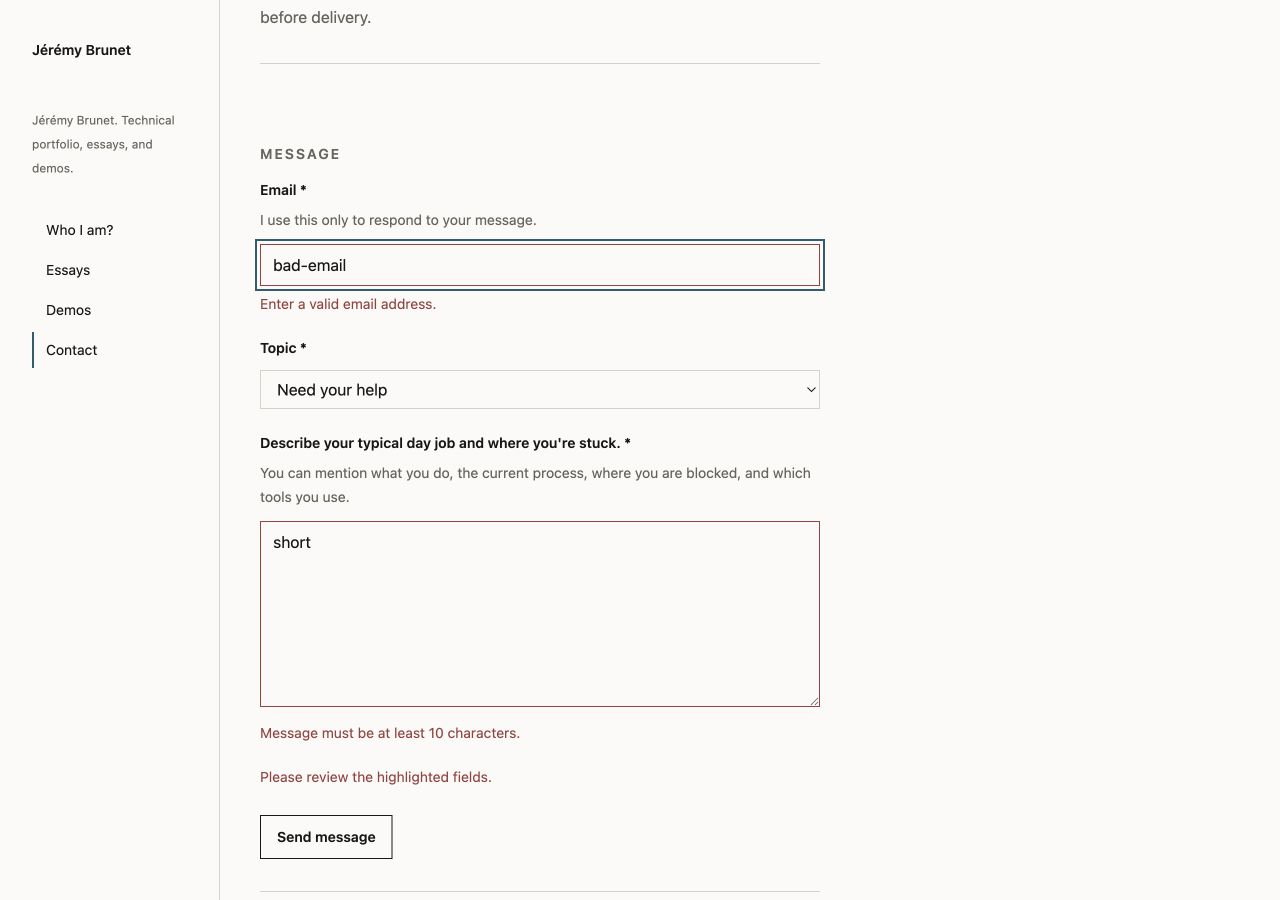
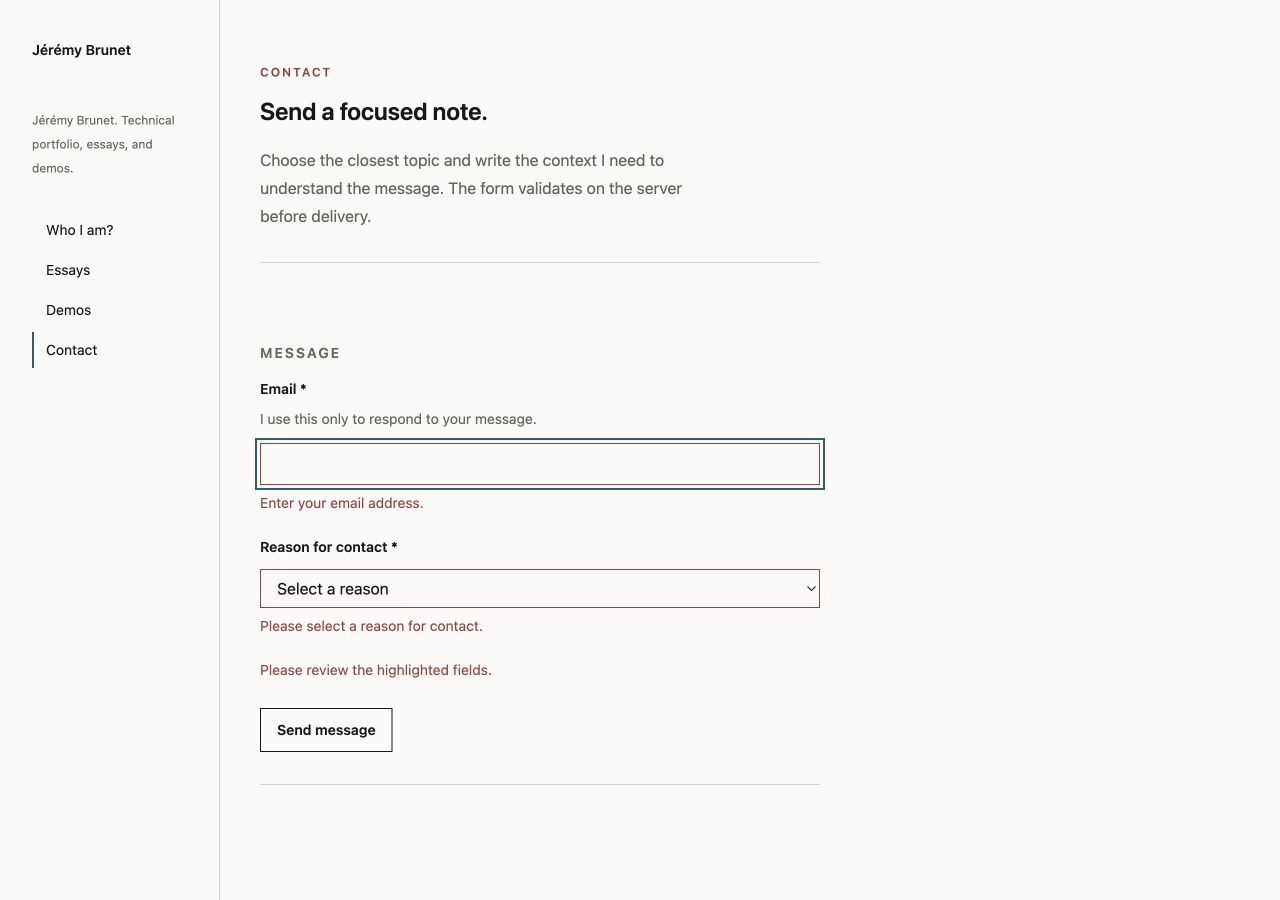
Fix contact reason validation copy

diff --git a/tests/contact-schema.test.ts b/tests/contact-schema.test.ts
@@ -36,7 +36,52 @@ describe('contact form schema', () => {
     }
   })
 
-  it('rejects an unsupported topic', () => {
+  it('rejects an empty topic with public reason copy', () => {
+    const result = validateContactFormInput(
+      {
+        ...validInput('other'),
+        topic: '',
+      },
+      { today },
+    )
+
+    expect(result.ok).toBe(false)
+    expect(result.ok ? undefined : result.fieldErrors.topic).toBe(
+      'Please select a reason for contact.',
+    )
+  })
+
+  it('rejects a missing topic with public reason copy', () => {
+    const result = validateContactFormInput(
+      {
+        email: 'reviewer@acme.co',
+        message: 'This is a useful review message.',
+      },
+      { today },
+    )
+
+    expect(result.ok).toBe(false)
+    expect(result.ok ? undefined : result.fieldErrors.topic).toBe(
+      'Please select a reason for contact.',
+    )
+  })
+
+  it('rejects a non-string topic with public reason copy', () => {
+    const result = validateContactFormInput(
+      {
+        ...validInput('other'),
+        topic: 123,
+      },
+      { today },
+    )
+
+    expect(result.ok).toBe(false)
+    expect(result.ok ? undefined : result.fieldErrors.topic).toBe(
+      'Please select a valid reason for contact.',
+    )
+  })
+
+  it('rejects an unsupported topic without enum internals', () => {
     const result = validateContactFormInput(
       {
         ...validInput('other'),
@@ -46,7 +91,11 @@ describe('contact form schema', () => {
     )
 
     expect(result.ok).toBe(false)
-    expect(result.ok ? undefined : result.fieldErrors.topic).toBeDefined()
+    const error = result.ok ? undefined : result.fieldErrors.topic
+
+    expect(error).toBe('Please select a valid reason for contact.')
+    expect(error).not.toContain('Invalid enum')
+    expect(error).not.toContain('need-help')
   })
 
   it('requires a message', () => {

diff --git a/lib/contact/schema.ts b/lib/contact/schema.ts
@@ -13,6 +13,8 @@ import { isObviouslyFakeEmail } from '@/lib/contact/email-validation'
 
 const disallowedControlCharacters = /[\u0000-\u0008\u000B\u000C\u000E-\u001F\u007F]/
 const dateOnlyPattern = /^\d{4}-\d{2}-\d{2}$/
+const missingReasonMessage = 'Please select a reason for contact.'
+const invalidReasonMessage = 'Please select a valid reason for contact.'
 
 export type ContactField = keyof ContactFormInput
 export type ContactFieldErrors = Partial<Record<ContactField, string>>
@@ -33,6 +35,20 @@ type ContactSchemaOptions = {
 
 function normalizeString(value: unknown) {
   return typeof value === 'string' ? value.trim() : value
+}
+
+function normalizeTopic(value: unknown) {
+  if (typeof value !== 'string') {
+    return value
+  }
+
+  const trimmed = value.trim()
+
+  return trimmed.length > 0 ? trimmed : undefined
+}
+
+function isContactTopic(value: string): value is ContactTopic {
+  return CONTACT_TOPIC_VALUES.includes(value as ContactTopic)
 }
 
 function normalizeEmail(value: unknown) {
@@ -120,14 +136,13 @@ export function createContactFormSchema(options: ContactSchemaOptions = {}) {
           }),
       ),
       topic: z.preprocess(
-        normalizeString,
-        z.enum(
-          CONTACT_TOPIC_VALUES as [ContactTopic, ContactTopic, ContactTopic, ContactTopic],
-          {
-            required_error: 'Choose a topic.',
-            invalid_type_error: 'Choose a topic.',
-          },
-        ),
+        normalizeTopic,
+        z
+          .string({
+            required_error: missingReasonMessage,
+            invalid_type_error: invalidReasonMessage,
+          })
+          .refine(isContactTopic, invalidReasonMessage),
       ),
       message: z.preprocess(
         (value) => (typeof value === 'string' ? normalizeMessage(value) : value),

diff --git a/tests/contact-route.test.ts b/tests/contact-route.test.ts
@@ -94,6 +94,24 @@ describe('contact route', () => {
     expect(mockedDeliverContactSubmission).not.toHaveBeenCalled()
   })
 
+  it('returns public copy for an empty topic validation error', async () => {
+    const response = await POST(
+      contactRequest({
+        ...validBody(),
+        topic: '',
+      }),
+    )
+    const body = await readJson(response)
+    const topicError = body.fieldErrors?.topic
+
+    expect(response.status).toBe(422)
+    expect(body.ok).toBe(false)
+    expect(topicError).toBe('Please select a reason for contact.')
+    expect(JSON.stringify(body)).not.toContain('Invalid enum')
+    expect(JSON.stringify(body)).not.toContain('need-help')
+    expect(mockedDeliverContactSubmission).not.toHaveBeenCalled()
+  })
+
   it('handles malformed requests', async () => {
     const response = await POST(contactRequest('{'))
     const body = await readJson(response)

diff --git a/components/contact/ContactForm.tsx b/components/contact/ContactForm.tsx
@@ -179,7 +179,7 @@ export function ContactForm() {
 
       <div>
         <label className="block text-sm font-semibold" htmlFor="contact-topic">
-          Topic <span aria-hidden="true">*</span>
+          Reason for contact <span aria-hidden="true">*</span>
         </label>
         <select
           ref={topicRef}
@@ -197,7 +197,7 @@ export function ContactForm() {
           required
           value={form.topic}
         >
-          <option value="">Select a topic</option>
+          <option value="">Select a reason</option>
           {CONTACT_TOPICS.map((topic) => (
             <option key={topic.value} value={topic.value}>
               {topic.label}
